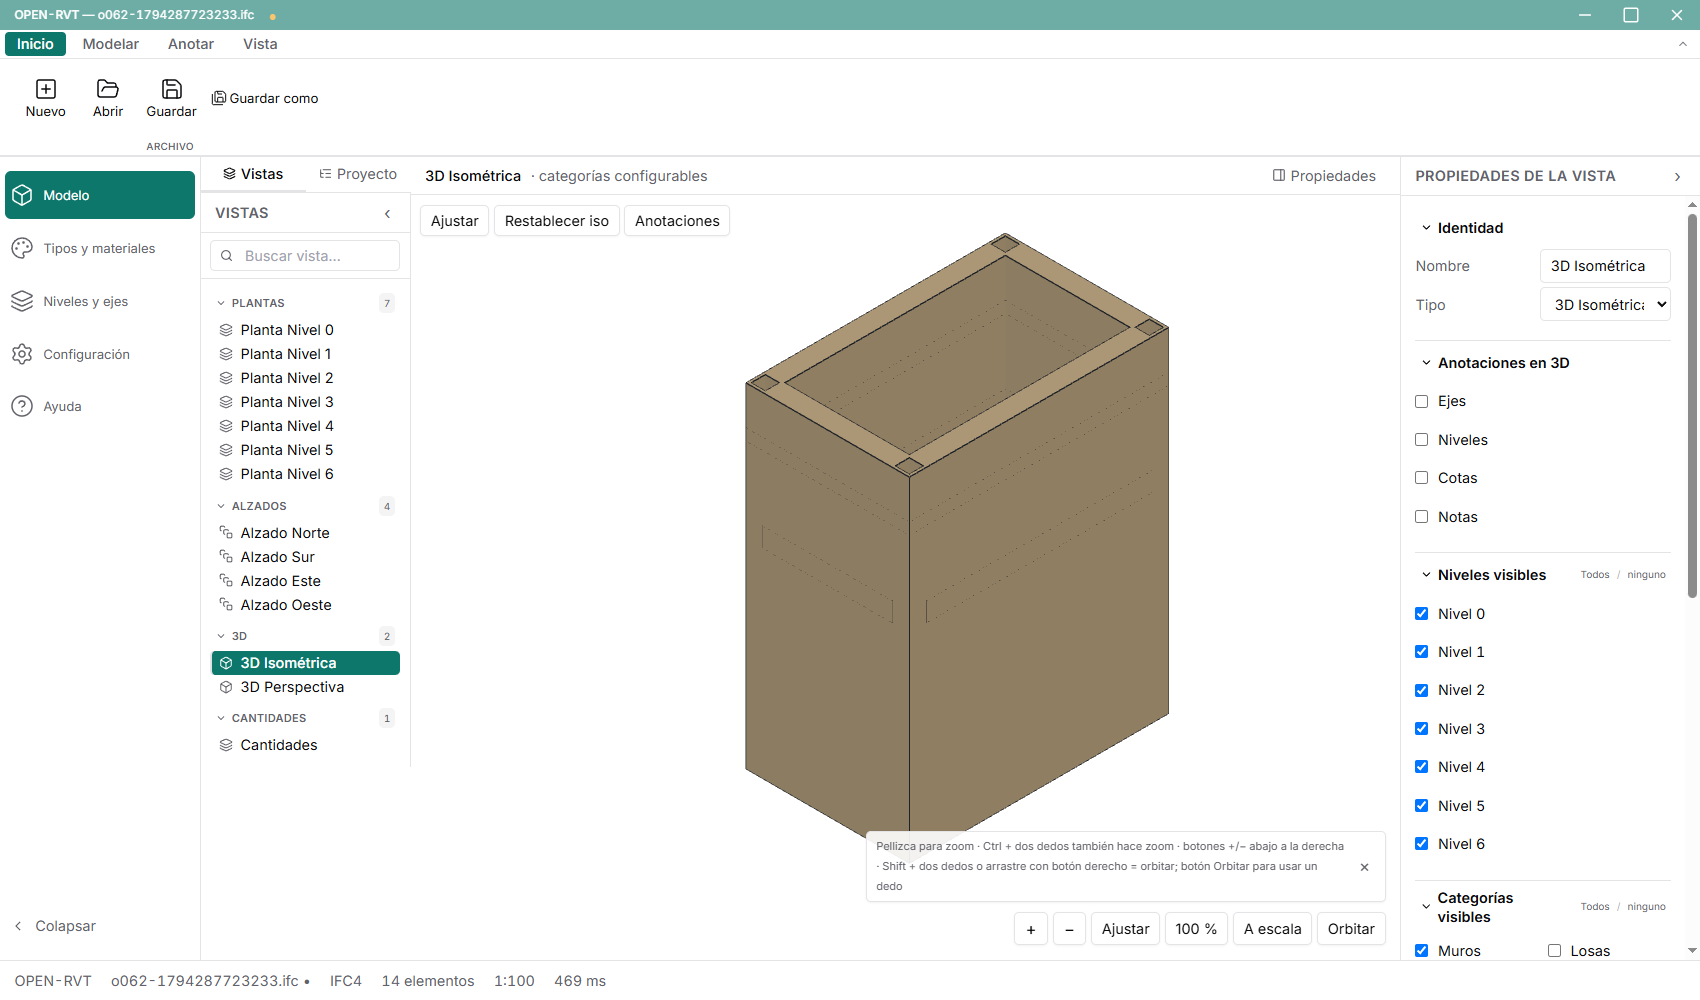
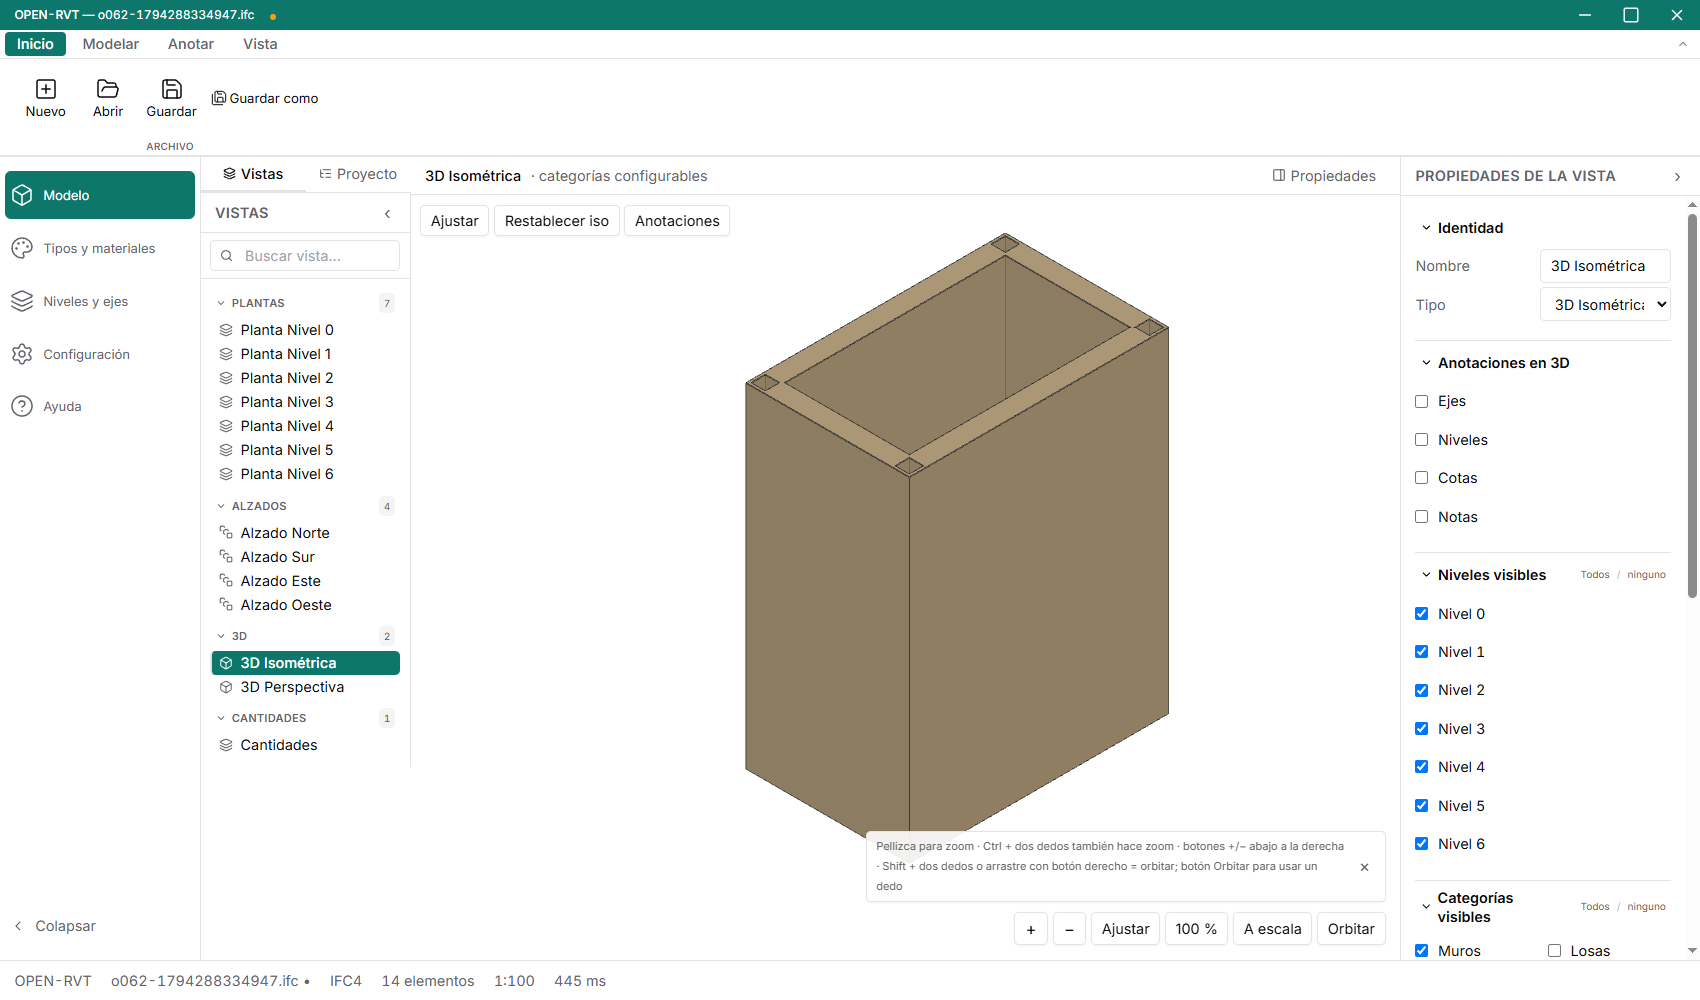
O062: E2E con iso ajustada, cerca y muy lejos; capturas revisadas

Changed region(s): [[0.0, 0.0, 1.0, 0.031], [0.1247, 0.961, 0.1559, 0.992]]

diff --git a/e2e/o062.test.js b/e2e/o062.test.js
@@ -180,6 +180,9 @@ test("O062: caras del muro continuas en las franjas de cerramiento y losa", asyn
 
     await activar(ses, "panel-pestana-vistas");
     await elegirVista(ses, "3D Isométrica");
+    // Iso con «Ajustar»: la vista completa, sin herencia de encuadres previos.
+    await activar(ses, "visor-zoom-ajustar");
+    await esperar(900);
     await captura(ses, "01-3d.png");
 
     // Solo muros y sin anotaciones: cualquier línea de las franjas es del muro.
@@ -197,6 +200,13 @@ test("O062: caras del muro continuas en las franjas de cerramiento y losa", asyn
     // Acercamiento a la esquina y a la cara este (x = 2.60).
     await zoomEn(ses, 2.60, 0.75, 2.75, 0.6);
     await captura(ses, "05-cara-este-3d.png");
+
+    // Muy lejos (zoom fuera desde el encuadre ajustado): la piel tiene que
+    // seguir tapando las aristas internas sin líneas tenues ni parpadeo.
+    await activar(ses, "visor-zoom-ajustar");
+    for (let i = 0; i < 4; i += 1) await activar(ses, "visor-zoom-menos");
+    await esperar(900);
+    await captura(ses, "06-iso-muy-lejos.png");
   } finally {
     await ses.cerrar();
   }
